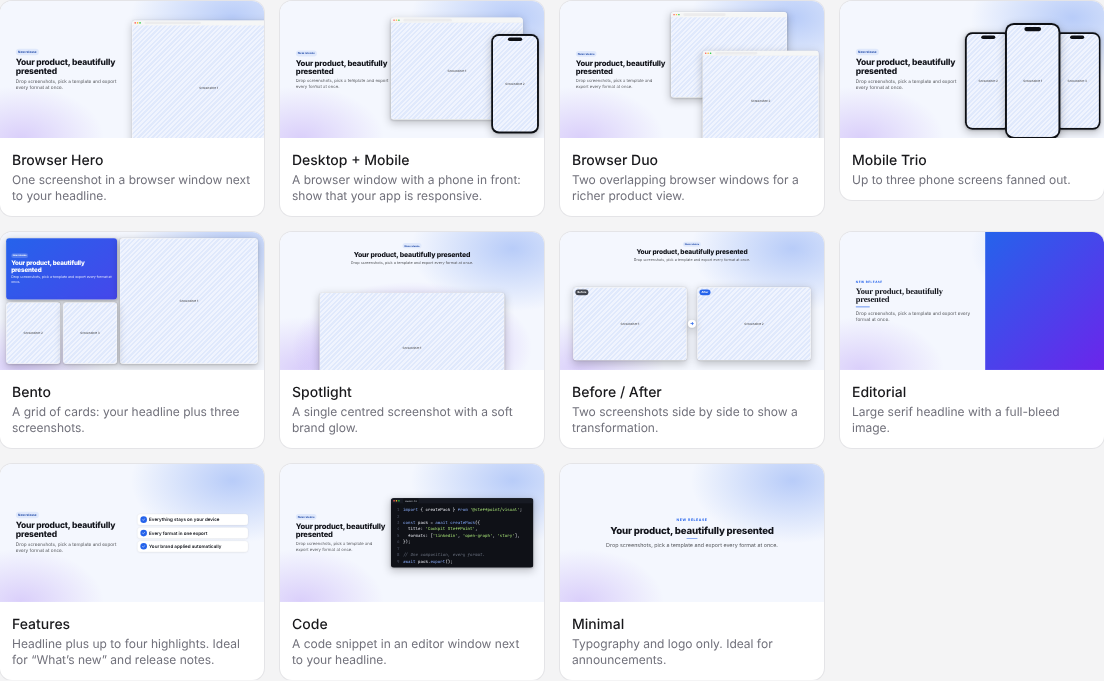
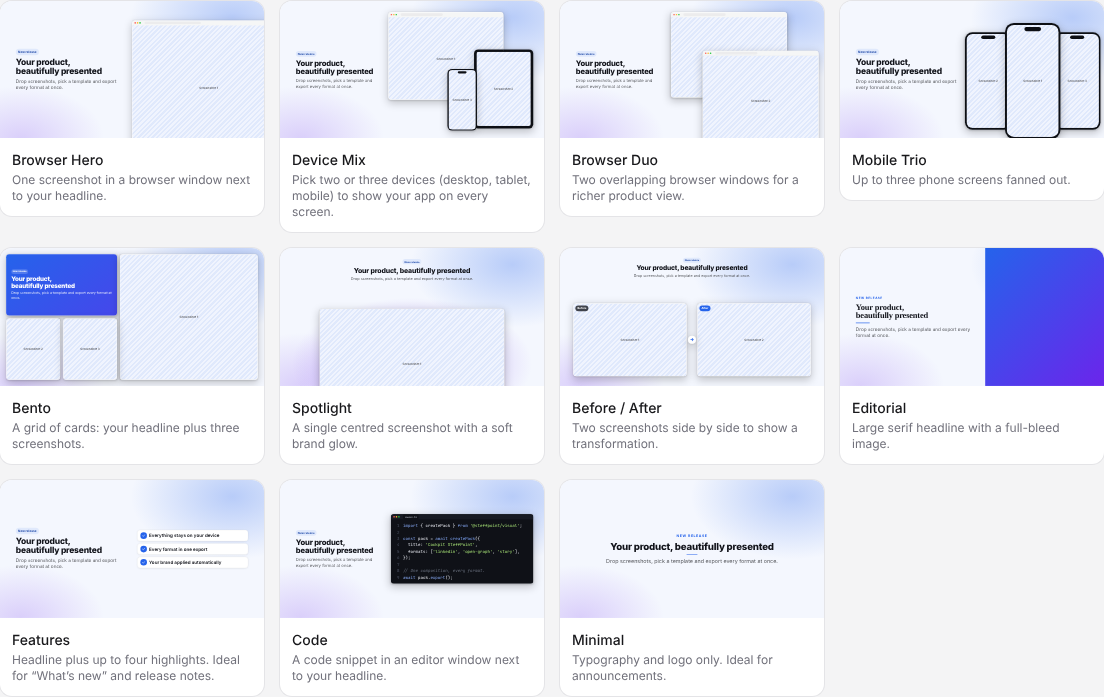
Retire Desktop + Mobile template in favour of Device Mix
Device Mix with desktop + mobile covers the same layout, so the gallery
drops the duplicate.

- Remove the browser-mobile template and its BrowserMobile renderer.
- migrateProject maps saved or imported browser-mobile projects to
  device-mix with devices ['desktop', 'mobile'], so existing projects
  open with the same two devices and screenshot order.
- e2e: the two-screenshot pixel test now runs on Device Mix
  desktop + mobile; unit test for the migration.
- README template list/table and docs/images/templates.png updated.

Claude-Session: https://claude.ai/code/session_012rmBgkYBB2x2My7zkFcETv

diff --git a/apps/web/src/render/Composition.tsx b/apps/web/src/render/Composition.tsx
@@ -761,35 +761,6 @@ function Minimal(ctx: Ctx) {
 }
 
 
-function BrowserMobile(ctx: Ctx) {
-  const { w, h, o, wide } = ctx;
-  let text: ReactNode;
-  let browser: CSSProperties;
-  let phoneH: number, phoneX: number, phoneY: number;
-  if (o === 'landscape') {
-    text = <TextBlock ctx={ctx} style={leftColumn(ctx, wide ? 0.32 : 0.36)} scale={0.92} />;
-    browser = abs(w * (wide ? 0.38 : 0.42), h * 0.12, w * (wide ? 0.48 : 0.5), h * 0.74);
-    phoneH = h * (wide ? 0.84 : 0.72);
-    phoneX = w * (wide ? 0.83 : 0.8);
-    phoneY = h * (wide ? 0.12 : 0.24);
-  } else {
-    const portrait = o === 'portrait';
-    text = <TextBlock ctx={ctx} align="center" style={topBlock(ctx)} scale={0.92} />;
-    browser = abs(w * 0.05, h * (portrait ? 0.44 : 0.46), w * 0.76, h * (portrait ? 0.3 : 0.42));
-    phoneH = h * (portrait ? 0.3 : 0.42);
-    phoneX = w * 0.68;
-    phoneY = h * 0.52;
-  }
-  const phoneW = phoneH * 0.48;
-  return (
-    <>
-      {text}
-      <BrowserFrame ctx={ctx} index={0} style={browser} />
-      <PhoneFrame ctx={ctx} index={1} width={phoneW} style={abs(phoneX, phoneY, phoneW, phoneH, { zIndex: 2 })} />
-    </>
-  );
-}
-
 /** Width / height of the device frames, used to keep their proportions whatever the format. */
 const DEVICE_RATIO = { tablet: 0.75, mobile: 0.48 } as const;
 
@@ -1101,7 +1072,6 @@ function Code(ctx: Ctx) {
 const TEMPLATE_COMPONENTS: Record<string, (ctx: Ctx) => ReactNode> = {
   'browser-hero': BrowserHero,
   'browser-duo': BrowserDuo,
-  'browser-mobile': BrowserMobile,
   'device-mix': DeviceMix,
   features: Features,
   code: Code,

diff --git a/packages/visual-core/src/project.ts b/packages/visual-core/src/project.ts
@@ -238,6 +238,9 @@ export function migrateProject(raw: unknown): Project {
         }))
     : [];
 
+  // "Desktop + Mobile" (browser-mobile) was replaced by Device Mix with the same two devices.
+  const legacyDesktopMobile = r.template === 'browser-mobile';
+
   const logo = typeof brand.logoAssetId === 'string' && assetIds.has(brand.logoAssetId) ? brand.logoAssetId : null;
 
   const presets = Array.isArray(r.exportPresets)
@@ -252,7 +255,7 @@ export function migrateProject(raw: unknown): Project {
     updatedAt: num(r.updatedAt, d.updatedAt, 0, Number.MAX_SAFE_INTEGER),
     revision: Math.floor(num(r.revision, 0, 0, Number.MAX_SAFE_INTEGER)),
     favorite: r.favorite === true,
-    template: isTemplateId(r.template) ? r.template : d.template,
+    template: legacyDesktopMobile ? 'device-mix' : isTemplateId(r.template) ? r.template : d.template,
     content: {
       kicker: str(content.kicker, d.content.kicker, LIMITS.kicker),
       title: str(content.title, d.content.title, LIMITS.title),
@@ -288,6 +291,6 @@ export function migrateProject(raw: unknown): Project {
       width: clampCustomSize(num(custom.width, d.customFormat.width, 1, 100_000)),
       height: clampCustomSize(num(custom.height, d.customFormat.height, 1, 100_000)),
     },
-    devices: normalizeDevices(r.devices),
+    devices: legacyDesktopMobile ? ['desktop', 'mobile'] : normalizeDevices(r.devices),
   };
 }

diff --git a/e2e/templates.spec.ts b/e2e/templates.spec.ts
@@ -22,11 +22,12 @@ async function exportLinkedIn(page: Page) {
   return zip.file('linkedin.png')!.async('uint8array');
 }
 
-test('Desktop + Mobile renders both screenshots', async ({ page }) => {
+test('Device Mix desktop + mobile renders both screenshots', async ({ page }) => {
   await newProject(page);
   await addScreenshot(page, 'desktop-magenta.png');
   await addScreenshot(page, 'desktop-cyan.png');
-  await useTemplate(page, 'Desktop + Mobile');
+  await useTemplate(page, 'Device Mix');
+  await page.getByRole('group', { name: 'Devices' }).getByRole('checkbox', { name: 'Tablet' }).uncheck({ force: true });
   const png = await exportLinkedIn(page);
   expectColor((await probePng(page, png, [0.55, 0.5])).rgb, MAGENTA); // browser
   expectColor((await probePng(page, png, [0.89, 0.6])).rgb, CYAN); // phone

diff --git a/packages/visual-core/src/core.test.ts b/packages/visual-core/src/core.test.ts
@@ -163,6 +163,12 @@ describe('device mix', () => {
     expect(migrateProject({}).devices).toEqual(['desktop', 'tablet', 'mobile']); // older files
   });
 
+  it('turns the retired Desktop + Mobile template into Device Mix', () => {
+    const p = migrateProject({ template: 'browser-mobile', devices: ['tablet', 'mobile'] });
+    expect(p.template).toBe('device-mix');
+    expect(p.devices).toEqual(['desktop', 'mobile']);
+  });
+
   it('expects one screenshot per selected device', () => {
     expect(screenshotRange({ template: 'device-mix', devices: ['desktop', 'mobile'] })).toEqual({ min: 2, max: 2 });
     expect(screenshotRange({ template: 'device-mix', devices: ['desktop', 'tablet', 'mobile'] })).toEqual({ min: 3, max: 3 });

diff --git a/packages/visual-core/src/templates.ts b/packages/visual-core/src/templates.ts
@@ -2,7 +2,6 @@
 
 export type TemplateId =
   | 'browser-hero'
-  | 'browser-mobile'
   | 'device-mix'
   | 'features'
   | 'code'
@@ -60,14 +59,6 @@ export const TEMPLATES: TemplateDefinition[] = [
     description: 'One screenshot in a browser window next to your headline.',
     shotKind: 'desktop',
     slots: { ...text, screenshots: { min: 1, max: 1 } },
-  },
-  {
-    id: 'browser-mobile',
-    name: 'Desktop + Mobile',
-    category: 'app-showcase',
-    description: 'A browser window with a phone in front: show that your app is responsive.',
-    shotKind: 'any',
-    slots: { ...text, screenshots: { min: 2, max: 2 } },
   },
   {
     id: 'device-mix',

diff --git a/README.md b/README.md
@@ -53,7 +53,7 @@ It is deliberately **not** Canva, Figma or Photoshop. It is a guided, focused to
 |---|---|
 | 🗂 **Projects** | Create, rename, duplicate, delete, favourite, search. Automatic thumbnails. Autosave. |
 | 💾 **Local storage** | Projects, images and thumbnails stored in IndexedDB. Close the tab, come back later, everything is there. |
-| 🧩 **11 templates** | Browser Hero, Desktop + Mobile, Browser Duo, Mobile Trio, Bento, Spotlight, Before / After, Features, Code, Editorial, Minimal. |
+| 🧩 **11 templates** | Browser Hero, Device Mix, Browser Duo, Mobile Trio, Bento, Spotlight, Before / After, Features, Code, Editorial, Minimal. |
 | 🖼 **Screenshots** | Up to 4 per project. Add by click, drag & drop anywhere, or paste (Ctrl/Cmd+V). |
 | 🎯 **Crop & focal point** | Cover / contain, zoom, and a focal point that stays visible when the layout changes between landscape, square and portrait. |
 | 🎨 **Brand** | One primary colour → derived palette. Light / dark theme, heading font, corner radius, shadow, logo. |
@@ -74,7 +74,7 @@ It is deliberately **not** Canva, Figma or Photoshop. It is a guided, focused to
 | Template | Best for | Screenshots |
 |---|---|---|
 | **Browser Hero** | Web app launch, one key screen | 1 |
-| **Desktop + Mobile** | Responsive apps: browser window with a phone in front | 2 (desktop, then mobile) |
+| **Device Mix** | Responsive apps: pick 2 or 3 devices among desktop, tablet and mobile | 2–3 (one per device, in that order) |
 | **Browser Duo** | Showing two related screens | 2 |
 | **Mobile Trio** | Mobile apps | 1–3 |
 | **Bento** | Feature overview | 1–3 |
